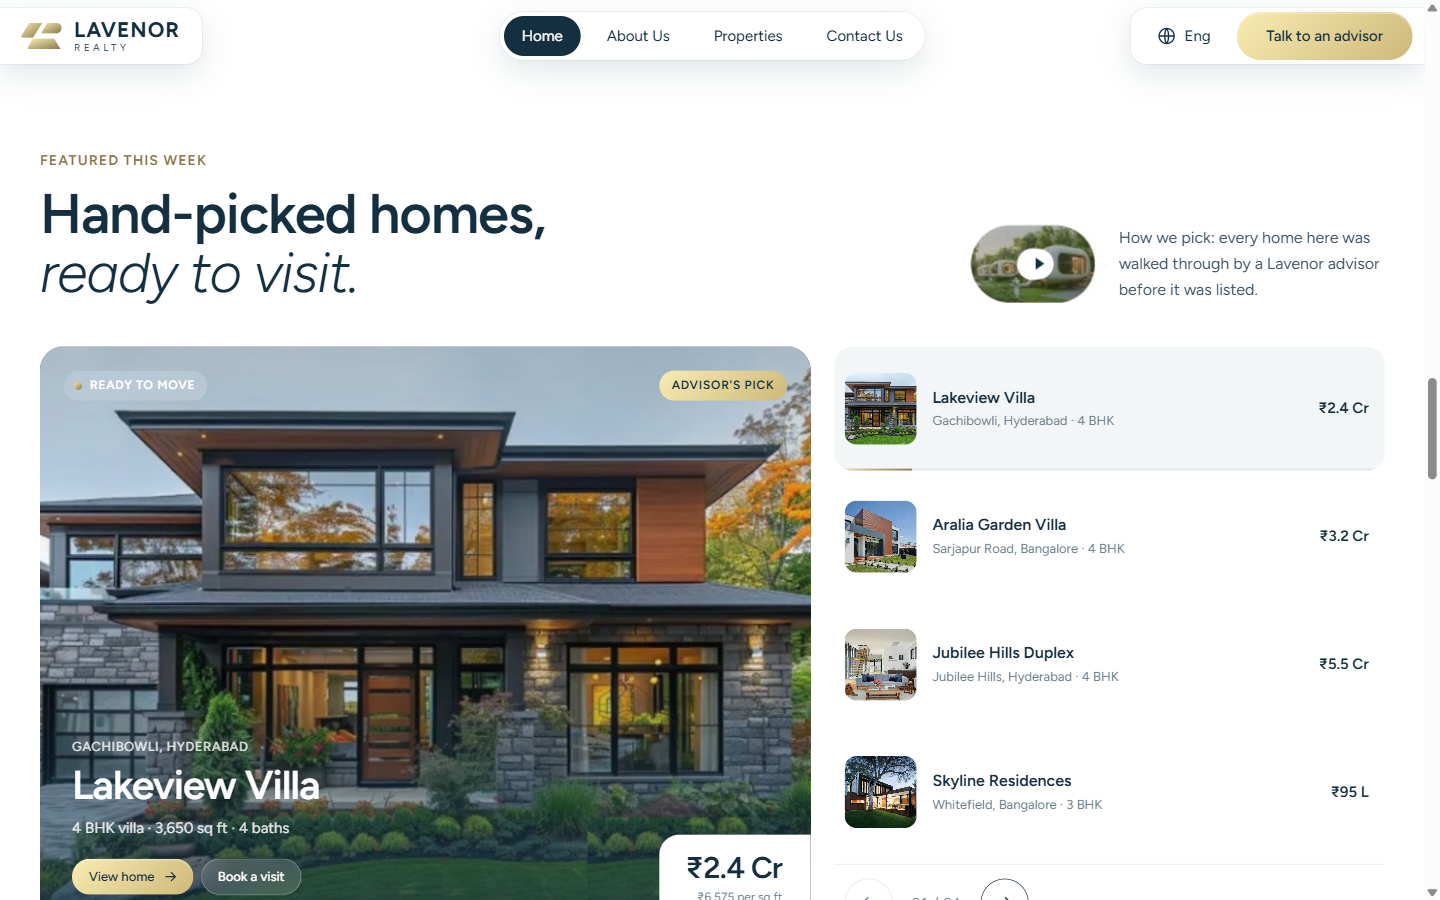
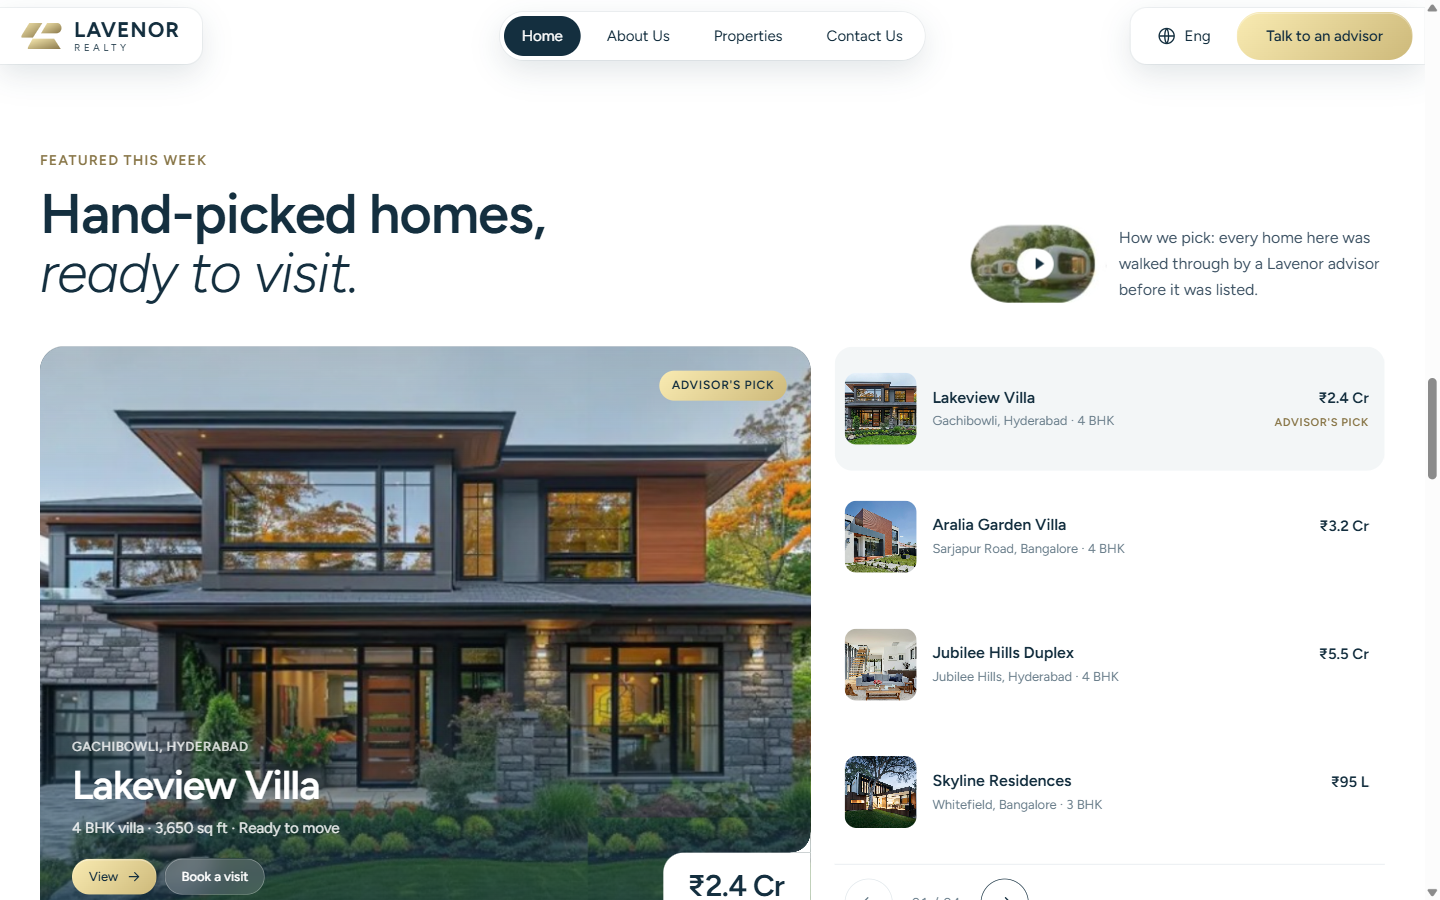
Featured: true bookmark cut-out for the price, no progress bar or autoplay, hover-to-preview rail
The stage is no longer clipped; the photo figure is. The price bookmark sits
square in the corner with page-coloured inverse curves, so nothing is cut off.
The rail's progress line and the timed rotation are gone: resting on a row
previews it, tapping or Enter selects it, and the active row shows the
"why featured" note. "View home" is "View"; the status pill left the stage and
its text joined the facts line.

diff --git a/design/prototype/style.css b/design/prototype/style.css
@@ -477,14 +477,15 @@ legend { padding: 0; }
 .video__play--lg::after { left: 26px; top: 20px; border-left-width: 18px; border-top-width: 12px; border-bottom-width: 12px; }
 .video__caption { font-size: var(--wp--preset--font-size--medium); line-height: 1.6; color: var(--wp--preset--color--ink-soft); }
 
-/* spotlight + rail. The stage crossfades two image layers; the rail row that is
-   active carries a thin gold progress line for the dwell time. */
+/* spotlight + rail. The photo layers crossfade inside the clipped figure; the stage itself
+   is not clipped, so the price bookmark can sit square in the corner with page-coloured
+   inverse curves (same trick as the listing card tab). Resting on a rail row previews it. */
 .spot { display: grid; grid-template-columns: minmax(0, 7fr) minmax(0, 5fr); gap: 24px; align-items: stretch; margin-top: 44px; }
-.spot__stage {
-	position: relative; min-height: 580px; border-radius: var(--wp--custom--radius--card); overflow: hidden; isolation: isolate;
-	background: var(--wp--preset--color--contrast); color: var(--wp--preset--color--base);
+.spot__stage { position: relative; min-height: 580px; isolation: isolate; color: var(--wp--preset--color--base); }
+.spot__media {
+	position: absolute; inset: 0; margin: 0; border-radius: var(--wp--custom--radius--card); overflow: hidden;
+	background: var(--wp--preset--color--contrast);
 }
-.spot__media { position: absolute; inset: 0; margin: 0; }
 .spot__img {
 	position: absolute; inset: 0; width: 100%; height: 100%; max-width: none; object-fit: cover; object-position: center 45%;
 	opacity: 0; transform: scale(1.06); transition: opacity .6s ease;
@@ -495,13 +496,11 @@ legend { padding: 0; }
 	position: absolute; inset: 0; z-index: 2;
 	background: linear-gradient(180deg, rgba(20, 47, 63, 0.28) 0%, rgba(20, 47, 63, 0) 32%, rgba(20, 47, 63, 0.08) 55%, rgba(20, 47, 63, 0.82) 100%);
 }
-.spot__status, .spot__why {
-	position: absolute; top: 24px; z-index: 3; display: inline-flex; align-items: center; gap: 8px; height: 30px; margin: 0; padding: 0 12px;
+.spot__why {
+	position: absolute; top: 24px; right: 24px; z-index: 3; display: inline-flex; align-items: center; height: 30px; margin: 0; padding: 0 12px;
 	border-radius: var(--wp--custom--radius--pill); font-size: 12px; font-weight: 600; letter-spacing: 0.06em; text-transform: uppercase;
+	background: var(--wp--preset--gradient--brand-gold-soft); color: var(--wp--preset--color--contrast);
 }
-.spot__status { left: 24px; padding-left: 10px; background: rgba(255, 255, 255, 0.16); -webkit-backdrop-filter: blur(10px); backdrop-filter: blur(10px); }
-.spot__status-dot { width: 8px; height: 8px; border-radius: 50%; background: var(--wp--preset--gradient--brand-gold); }
-.spot__why { right: 24px; background: var(--wp--preset--gradient--brand-gold-soft); color: var(--wp--preset--color--contrast); }
 .spot__info {
 	position: absolute; left: 32px; right: 240px; bottom: 32px; z-index: 3;
 	transition: opacity .22s ease, transform .22s ease;
@@ -516,12 +515,18 @@ legend { padding: 0; }
 .btn--glass:hover { background: rgba(255, 255, 255, 0.28); }
 .spot__price {
 	position: absolute; right: 0; bottom: 0; z-index: 3; display: flex; flex-direction: column; align-items: flex-end; margin: 0;
-	padding: 18px 28px 20px 26px; border-radius: 20px 0 0 0;
+	--notch: 20px;
+	padding: 18px 22px 2px 24px; border-radius: var(--notch) 0 0 0;
 	background: var(--wp--preset--color--base); color: var(--wp--preset--color--contrast);
 	transition: opacity .22s ease, transform .22s ease;
 }
+/* inverse curves where the bookmark meets the photo: above it on the right edge, left of it on the bottom edge */
+.spot__price::before, .spot__price::after { content: ""; position: absolute; width: var(--notch); height: var(--notch); background: radial-gradient(circle at 0 0, transparent calc(var(--notch) - 0.5px), var(--wp--preset--color--base) var(--notch)); }
+.spot__price::before { right: 0; bottom: 100%; }
+.spot__price::after { left: calc(-1 * var(--notch)); bottom: 0; }
 .spot__price strong { font-size: 30px; font-weight: 600; line-height: 1; letter-spacing: -0.02em; }
 .spot__price span { margin-top: 6px; font-size: 12px; color: var(--wp--preset--color--ink-muted); }
+.spot__price > * { margin-right: 4px; }
 
 .rail-wrap { display: flex; flex-direction: column; }
 .rail { display: flex; flex-direction: column; flex: 1; gap: 4px; margin: 0; padding: 0; list-style: none; counter-reset: rail; }
@@ -534,14 +539,10 @@ legend { padding: 0; }
 .rail__row:hover, .rail__row.is-active { background: var(--wp--preset--color--surface); }
 .rail__thumb { width: 72px; height: 72px; border-radius: 12px; object-fit: cover; }
 .rail__name { display: block; font-size: 16px; font-weight: 600; line-height: 1.25; }
-.rail__meta { display: block; margin-top: 4px; font-size: 13px; color: var(--wp--preset--color--ink-muted); }
-.rail__price { font-size: 15px; font-weight: 600; white-space: nowrap; }
-.rail__bar { position: absolute; left: 0; right: 0; bottom: 0; height: 2px; background: rgba(20, 47, 63, 0.08); opacity: 0; transition: opacity .2s ease; }
-.rail__row.is-active .rail__bar { opacity: 1; }
-.rail__bar i { display: block; width: 0; height: 100%; background: var(--wp--preset--gradient--brand-gold); }
-.rail__row.is-active .rail__bar i { animation: rail-progress var(--dwell, 6.5s) linear forwards; }
-.spot.is-paused .rail__bar i { animation-play-state: paused; }
-@keyframes rail-progress { to { width: 100%; } }
+.rail__meta { display: block; margin-top: 4px; font-size: 13px; color: var(--wp--preset--color--ink-muted); white-space: nowrap; overflow: hidden; text-overflow: ellipsis; }
+.rail__price { display: flex; flex-direction: column; align-items: flex-end; font-size: 15px; font-weight: 600; white-space: nowrap; }
+.rail__why { margin-top: 4px; font-size: 11px; font-weight: 600; letter-spacing: 0.06em; text-transform: uppercase; color: var(--wp--preset--color--primary-dark); opacity: 0; transform: translateY(3px); transition: opacity .25s ease, transform .25s ease; }
+.rail__row.is-active .rail__why { opacity: 1; transform: none; }
 .rail__foot { display: flex; align-items: center; justify-content: space-between; gap: 16px; margin-top: 10px; padding: 14px 10px 0; border-top: 1px solid var(--wp--preset--color--border); }
 .spot__nav { display: flex; align-items: center; gap: 12px; }
 .spot__count { min-width: 64px; font-size: 13px; font-variant-numeric: tabular-nums; letter-spacing: 0.06em; color: var(--wp--preset--color--ink-muted); text-align: center; }
@@ -1379,12 +1380,10 @@ legend { padding: 0; }
 
 	.spot { grid-template-columns: 1fr; gap: 16px; margin-top: 28px; }
 	.spot__stage { min-height: 0; aspect-ratio: 4 / 5; }
-	.spot__status, .spot__why { top: 16px; }
-	.spot__status { left: 16px; }
-	.spot__why { right: 16px; }
+	.spot__why { top: 16px; right: 16px; }
 	.spot__info { left: 18px; right: 18px; bottom: 96px; }
 	.spot__name { font-size: 28px; }
-	.spot__price { padding: 14px 18px 16px 18px; border-radius: 16px 0 0 0; }
+	.spot__price { --notch: 16px; padding: 14px 16px 2px 18px; }
 	.spot__price strong { font-size: 24px; }
 	.rail__row { min-height: 0; padding: 8px 12px 8px 8px; gap: 12px; grid-template-columns: 56px minmax(0, 1fr) auto; }
 	.rail__thumb { width: 56px; height: 56px; }

diff --git a/design/prototype/app.js b/design/prototype/app.js
@@ -234,20 +234,18 @@
 	const spot = $('[data-featured]');
 	if (spot && FEATURED.length) {
 		const reduced = matchMedia('(prefers-reduced-motion: reduce)').matches;
-		const DWELL = 6500;
+		const canHover = matchMedia('(hover: hover) and (pointer: fine)').matches;
 		const layers = [$('[data-spot-img]', spot), $('[data-spot-img-next]', spot)];
 		const el = (k) => $(`[data-spot-${k}]`, spot);
 		const rail = $('[data-rail]', spot);
-		let index = 0, top = 0, timer;
-		const holds = new Set();
-		spot.style.setProperty('--dwell', `${DWELL}ms`);
+		let index = 0, top = 0, hoverTimer;
 
 		FEATURED.forEach((p) => { const i = new Image(); i.src = p.img; });
 
 		const n = (x) => x.toLocaleString('en-IN');
 		const facts = (p) => p.type === 'plot'
 			? `Plot · ${n(p.sqft)} sq yd · Gated layout`
-			: `${p.bhk} BHK ${p.type} · ${n(p.sqft)} sq ft · ${p.baths} bath${p.baths > 1 ? 's' : ''}`;
+			: `${p.bhk} BHK ${p.type} · ${n(p.sqft)} sq ft · ${p.status}`;
 		const psf = (p) => p.intent === 'rent' ? 'per month' : `₹${n(Math.round(p.price / p.sqft))} per sq ${p.type === 'plot' ? 'yd' : 'ft'}`;
 
 		FEATURED.forEach((p, i) => {
@@ -255,9 +253,14 @@
 			li.innerHTML = `<button class="rail__row" type="button" aria-pressed="false">
 				<img class="rail__thumb" src="${p.img}" alt="" width="72" height="72" loading="lazy">
 				<span class="rail__text"><span class="rail__name">${p.title}</span><span class="rail__meta">${p.area}, ${cityLabel[p.city]} · ${p.type === 'plot' ? `${n(p.sqft)} sq yd` : `${p.bhk} BHK`}</span></span>
-				<span class="rail__price">${rupees(p.price, p.intent === 'rent')}</span>
-				<span class="rail__bar" aria-hidden="true"><i></i></span></button>`;
-			li.firstElementChild.addEventListener('click', () => { if (i !== index) show(i); });
+				<span class="rail__price">${rupees(p.price, p.intent === 'rent')}<span class="rail__why">${p.why}</span></span></button>`;
+			const row = li.firstElementChild;
+			// Desktop: resting on a row previews it in the stage. Touch and keyboard: tap or Enter.
+			row.addEventListener('click', () => { if (i !== index) show(i); });
+			if (canHover) {
+				row.addEventListener('pointerenter', () => { clearTimeout(hoverTimer); if (i !== index) hoverTimer = setTimeout(() => show(i), 140); });
+				row.addEventListener('pointerleave', () => clearTimeout(hoverTimer));
+			}
 			rail.append(li);
 		});
 		const rows = $$('.rail__row', rail);
@@ -276,7 +279,6 @@
 			if (incoming.complete && incoming.naturalWidth) reveal();
 		};
 		const fill = (p) => {
-			el('status').textContent = p.status;
 			el('why').textContent = p.why;
 			el('place').textContent = `${p.area}, ${cityLabel[p.city]}`;
 			el('title').textContent = p.title;
@@ -288,24 +290,13 @@
 			el('count').textContent = `${String(index + 1).padStart(2, '0')} / ${String(FEATURED.length).padStart(2, '0')}`;
 			rows.forEach((r, j) => { r.classList.toggle('is-active', j === index); r.setAttribute('aria-pressed', String(j === index)); });
 		};
-		const restartBar = () => { const r = rows[index]; r.classList.remove('is-active'); void r.offsetWidth; r.classList.add('is-active'); };
-		const arm = () => { clearTimeout(timer); if (!reduced && !holds.size) timer = setTimeout(() => show(index + 1), DWELL); };
-		const hold = (key, on) => {
-			const was = holds.size > 0;
-			on ? holds.add(key) : holds.delete(key);
-			const now = holds.size > 0;
-			if (now === was) return;
-			spot.classList.toggle('is-paused', now);
-			if (now) clearTimeout(timer); else { restartBar(); arm(); }
-		};
 		const show = (i) => {
 			index = (i + FEATURED.length) % FEATURED.length;
 			const p = FEATURED[index];
 			swapImage(p);
-			if (reduced) { fill(p); arm(); return; }
+			if (reduced) { fill(p); return; }
 			spot.classList.add('is-switching');
 			setTimeout(() => { fill(p); spot.classList.remove('is-switching'); }, 220);
-			arm();
 		};
 
 		$('[data-prev]', spot).addEventListener('click', () => show(index - 1));
@@ -314,17 +305,9 @@
 			if (e.key === 'ArrowLeft') { e.preventDefault(); show(index - 1); }
 			if (e.key === 'ArrowRight') { e.preventDefault(); show(index + 1); }
 		});
-		// autoplay only while visible, unhovered and unfocused
-		spot.addEventListener('pointerenter', () => hold('hover', true));
-		spot.addEventListener('pointerleave', () => hold('hover', false));
-		spot.addEventListener('focusin', (e) => { if (e.target.matches(':focus-visible')) hold('focus', true); }); // keyboard focus only; a mouse click must not stop the rotation
-		spot.addEventListener('focusout', (e) => { if (!spot.contains(e.relatedTarget)) hold('focus', false); });
-		document.addEventListener('visibilitychange', () => hold('hidden', document.hidden));
-		new IntersectionObserver(([e]) => hold('offscreen', !e.isIntersecting), { threshold: 0.35 }).observe(spot);
 
 		layers[0].src = FEATURED[0].img; layers[0].alt = `${FEATURED[0].title}, ${FEATURED[0].area}`; layers[0].classList.add('is-on');
 		fill(FEATURED[0]);
-		arm();
 	}
 
 	/* ------------------------------------------------------------------

diff --git a/design/prototype/index.html b/design/prototype/index.html
@@ -247,14 +247,13 @@
 					<img class="spot__img" data-spot-img-next src="" alt="" width="1200" height="800" aria-hidden="true">
 					<div class="spot__shade"></div>
 				</figure>
-				<p class="spot__status"><span class="spot__status-dot" aria-hidden="true"></span><span data-spot-status></span></p>
 				<p class="spot__why" data-spot-why></p>
 				<div class="spot__info" data-spot-info aria-live="polite">
 					<p class="spot__place" data-spot-place></p>
 					<h3 class="spot__name"><a data-spot-link data-spot-title href="#"></a></h3>
 					<p class="spot__line" data-spot-line></p>
 					<div class="spot__actions">
-						<a class="btn btn--accent btn--sm" data-spot-link href="#">View home
+						<a class="btn btn--accent btn--sm" data-spot-link href="#">View
 							<svg width="16" height="16" viewBox="0 0 24 24" fill="none" stroke="currentColor" stroke-width="1.8" stroke-linecap="round" stroke-linejoin="round" aria-hidden="true"><path d="M5 12h14M13 6l6 6-6 6"/></svg>
 						</a>
 						<a class="btn btn--glass btn--sm" data-spot-visit href="#">Book a visit</a>
